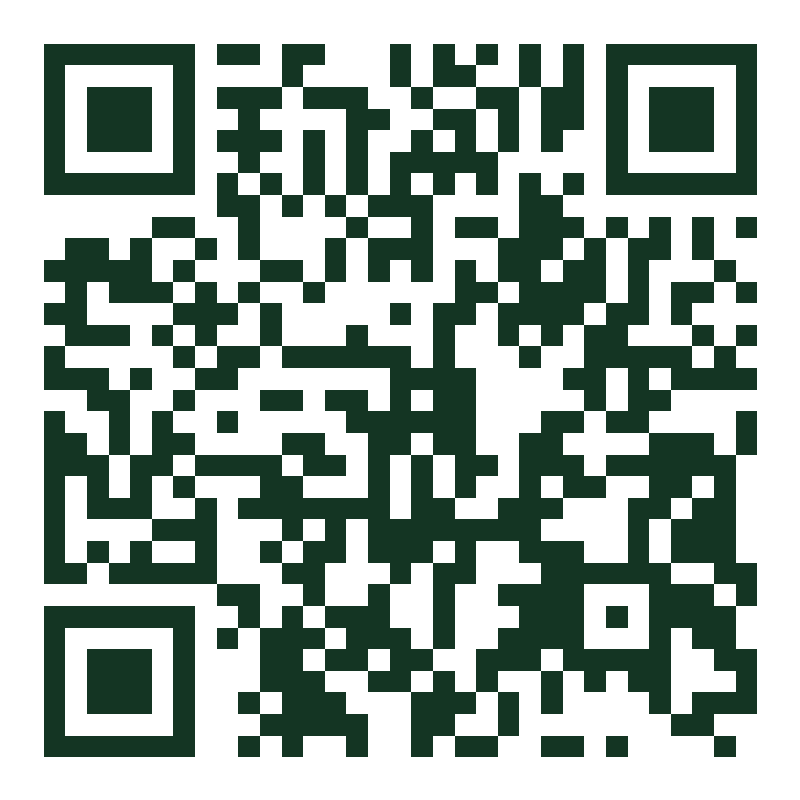
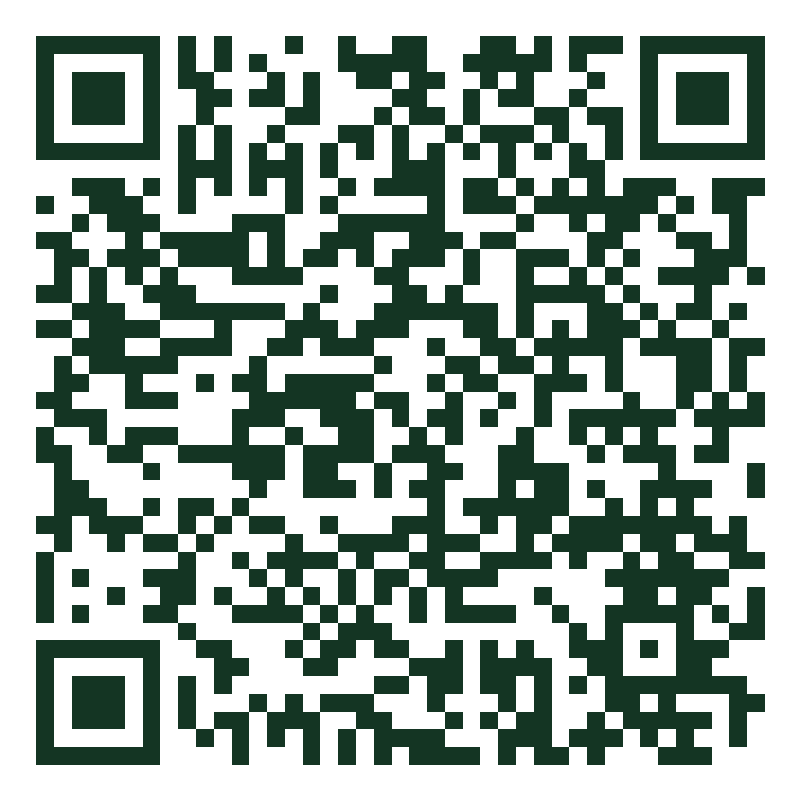
Update QR codes with live Vercel URL

diff --git a/scripts/generate-qr.js b/scripts/generate-qr.js
@@ -12,8 +12,7 @@ if (!fs.existsSync(outputDir)) {
 }
 
 // 1. Live Production Website QR code (for packaging & customer distribution)
-// You can change this to your exact live domain once deployed!
-const websiteUrl = 'https://naturalcare-okramucin.com';
+const websiteUrl = 'https://natural-care-skin-products.vercel.app';
 
 // 2. Local network testing URL (for scanning on your phone right now on Wi-Fi!)
 const localWifiUrl = 'http://192.168.1.5:3000';

diff --git a/src/pages/AdminPage.jsx b/src/pages/AdminPage.jsx
@@ -1145,7 +1145,7 @@ export default function AdminPage({
                   Main Website QR Code
                 </h3>
                 <p style={{ fontSize: '0.82rem', color: 'var(--text-secondary)', marginBottom: '1.5rem' }}>
-                  Points to: <strong>https://naturalcare-okramucin.com</strong>
+                  Points to: <strong>https://natural-care-skin-products.vercel.app</strong>
                 </p>
 
                 <div style={{

diff --git a/src/components/QRCodeModal.jsx b/src/components/QRCodeModal.jsx
@@ -8,7 +8,7 @@ export default function QRCodeModal({ isOpen, onClose }) {
   if (!isOpen) return null;
 
   const localUrl = 'http://192.168.1.5:3000';
-  const prodUrl = 'https://naturalcare-okramucin.com';
+  const prodUrl = 'https://natural-care-skin-products.vercel.app';
 
   const currentUrl = activeTab === 'local' ? localUrl : prodUrl;
   const currentQrImage = activeTab === 'local' ? '/images/qr-code-local.png' : '/images/qr-code.png';
